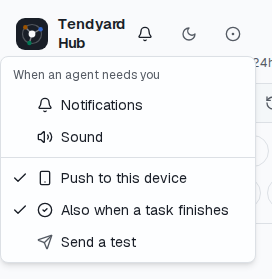
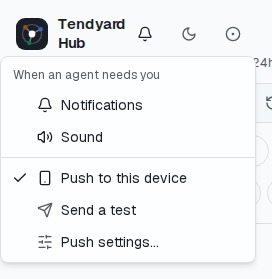
docs: document push devices, their settings and signing out
The hub guide's Push section gets the Push tab of Hub settings (finished
tasks, issues, groups, quiet hours, removing a device), signing out and
when a device ends, the app badge, the devices' routes and push.json;
the architecture guide, the device model and both notifiers.
capture-docs.mjs takes hub-settings-push.png and the new bell menu.
CHANGELOG names the v5.8.0 section.

Changed region(s): [[0.1176, 0.7168, 0.8529, 0.8029], [0.1176, 0.8315, 0.5588, 0.8889], [0.0588, 0.7455, 0.0882, 0.7742]]

diff --git a/docs/architecture.zh-TW.md b/docs/architecture.zh-TW.md
@@ -95,7 +95,7 @@ flowchart TB
 | `lib/native/procutil` | 子行程：行程群組（process group）與正常關閉流程 |
 | `lib/statedb/` | `--state-db` 的 SQLite 持久保存 |
 | `lib/instanceapi/` | Tendyard 和同時監看多個實例的用戶端之間的約定：它是誰（`WebhookInstance`，出現在 webhook 事件、摘要和登記檔中，含它的 `AgentType`）、它的摘要、webhook 的外層格式和簽章（`Sign`、`Verify`），以及 hub 對每個實例顯示的狀態（`StateOf`）。它只匯入 `lib/agentstate` 和 `lib/util` |
-| `lib/hub/` | `agentapi hub serve`，建立在 `lib/instanceapi` 和 `lib/httpmw` 上，不經過伺服器：實例、頁面上設定的群組和釘選、每個實例這一列顯示的內容最近一次變動的時間，以及 hub 看到它工作的區段（`store.go`、`work.go`，由 `persist.go` 保存在檔案中）、最近一年逐小時的活動（`activity.go`、`activity.json`、`GET /api/activity`：工作時間，以及摘要 `spend.hours` 裡每個 scope 的花費）、我的最愛提示（`favorites.go`，`GET`／`PUT /api/favorites`，屬於 hub 的設定，保存在同一個檔案）、模型供應商（`providers.go`、`providers.json`、`GET`／`PUT /api/providers`、給編輯器 Check connection 用的 `POST /api/providers/check`，以及給 Tendyard 用的 `POST /api/providers/sync`）和來自 OpenRouter 的模型價格（`prices.go`、`openrouter.go`、`openrouter.json`、`POST /api/providers/prices`、`GET /api/providers/openrouter`）、傳輸型別的 schema（`schema.go`、`hub-schema.json`，給頁面的型別用）、有簽章的 webhook 接收端（`webhook.go`）、每個實例的摘要串流（`watch.go`）、登入、瀏覽器的事件串流，以及到實例的代理（`hub.go`、`proxy.go`），主機怎麼加入（`join.go`：`GET /api/join` 和啟動 log 列出的位址），以及對已訂閱瀏覽器的 Web Push（`push.go`、`push.json`、`/api/push`：依 store 的變動，推播需要你處理的事和完成的任務）；使用說明見 [hub.zh-TW.md](hub.zh-TW.md) |
+| `lib/hub/` | `agentapi hub serve`，建立在 `lib/instanceapi` 和 `lib/httpmw` 上，不經過伺服器：實例、頁面上設定的群組和釘選、每個實例這一列顯示的內容最近一次變動的時間，以及 hub 看到它工作的區段（`store.go`、`work.go`，由 `persist.go` 保存在檔案中）、最近一年逐小時的活動（`activity.go`、`activity.json`、`GET /api/activity`：工作時間，以及摘要 `spend.hours` 裡每個 scope 的花費）、我的最愛提示（`favorites.go`，`GET`／`PUT /api/favorites`，屬於 hub 的設定，保存在同一個檔案）、模型供應商（`providers.go`、`providers.json`、`GET`／`PUT /api/providers`、給編輯器 Check connection 用的 `POST /api/providers/check`，以及給 Tendyard 用的 `POST /api/providers/sync`）和來自 OpenRouter 的模型價格（`prices.go`、`openrouter.go`、`openrouter.json`、`POST /api/providers/prices`、`GET /api/providers/openrouter`）、傳輸型別的 schema（`schema.go`、`hub-schema.json`，給頁面的型別用）、有簽章的 webhook 接收端（`webhook.go`）、每個實例的摘要串流（`watch.go`）、登入、瀏覽器的事件串流，以及到實例的代理（`hub.go`、`proxy.go`），主機怎麼加入（`join.go`：`GET /api/join` 和啟動 log 列出的位址），以及對已訂閱裝置的 Web Push（`push.go`、`push.json`、`/api/push`、`/api/push/devices`；每台裝置的設定在 `push_prefs.go`；notifier 在 `push_notify.go`：依 store 的變動推播需要你處理的事和完成的任務，依派工的變動推播 issue 的工作）；使用說明見 [hub.zh-TW.md](hub.zh-TW.md) |
 | `lib/dispatch/` | hub 的 issue 派工，由 `lib/hub` 掛上：有 launcher 回報的主機（`host.*` 事件；主機名稱綁定第一次帶來的 launcher token）、job 與各次 run 的花費（任務數來自 `task.*` 事件；金額與工作時間來自 hub 讀到的 run 的 Tendyard，`Saw`）和最近 50 則送給 agent 的訊息（`send`，來自 hub 的頁面、review 或 `/agent` 留言）、`POST /api/dispatch`（`start` 在 job 進入 `starting` 時就回應，hub 在背景呼叫 launcher，並記下這次啟動直到有結果；沒收到回應時從主機下一次回報接回）、GitHub App，保存在 `dispatch.json` 和 `github-app.json`。`Subscribe` 與 `Board` 讓 hub 的串流在每次變動後送出主機和 job（`dispatch` 事件）；規格見 [issue-dispatch.zh-TW.md](specs/issue-dispatch.zh-TW.md) |
 | `lib/host/` | `agentapi host`，每台主機上的 launcher：設定（設定檔的 `host` 區段）、它有或會 clone 的 repo、hub 每啟動一個 job 就建一個 git worktree 和一個實例（結束後重新啟動，記在 `jobs.json`）、給 hub 呼叫且需要 token 的 API（`server.go`）、送給 hub 的 `host.*` 事件與 heartbeat（`hub.go`），以及經由 unix socket 交給 job 的 `git`、`gh` 的 GitHub token（`credentials.go`） |
 | `lib/github/` | hub 的 GitHub App，只依賴標準函式庫：以 manifest 註冊、App 的 JWT、限單一 repo（快取到到期前 5 分鐘）或整個安裝的 installation token，以及派工以 App 身分呼叫的 REST API |
@@ -691,14 +691,23 @@ webhook 事件的 delivery ID 也以同樣方式寫入 `instances.deliveries.jso
 重新啟動後重送的事件同樣會被拒絕。
 
 推播（`push.go`）把 `push.json` 放在 `instances.json` 旁（0600）：VAPID 私鑰在 hub 第一次啟動時產生並寫入，
-讓瀏覽器的訂閱在重新啟動後仍然有效；訂閱則在每次變動時經由 `atomicfile` 寫入。notifier 像瀏覽器的串流一樣
-訂閱 store，為每個實例記住它在等什麼（`instanceapi.AttentionKey`）和最近的任務。看到某個實例的第一筆狀態時，
-只記下這些。出現新的等待，或看過正在執行的任務結束、沒有在等什麼時，啟動 5 秒的計時器（`pushDelay`，用 hub
-的時鐘）；時間到時，實例仍是那個狀態才推播：為同一件事需要你且沒有靜音，或同一個任務已結束且未讀。每個訂閱各自
-拿到為它加密的 payload（`{"kind", "title", "body", "id", "tag"}`），每個實例一個 `Topic`，讓還留著舊推播的
-推播服務以新的取代；推播服務回 404 或 410 的訂閱會移除。頁面的 service worker（`chat/public/hub/sw.js`）
-顯示推播，除非 hub 頁面有某個視窗位於焦點（Safari 一律顯示，因為推播沒顯示任何東西的訂閱，Safari 會結束它）；
-點通知時，聚焦 hub 頁面的一個視窗並由它開啟 agent（`usePush`）；沒有開著的頁面時，以 `#<id>` 開啟頁面。
+讓瀏覽器的訂閱在重新啟動後仍然有效；裝置則在每次變動時經由 `atomicfile` 寫入。一台裝置就是一個訂閱，加上它的
+名稱、設定（`PushPrefs`，`push_prefs.go`）、它的推播服務最近一次收下和拒絕推播的時間，以及 `expires_at`：
+頁面每次載入都會為它續期（`PUT /api/push/subscription`），帶著 session cookie 時，它隨那個 session 結束
+（簽發時間 + 30 天）；`token_id` 是 hub token 的 HMAC，換了 token 啟動的 hub 會忘掉這台裝置。API 以 endpoint
+的 SHA-256 前 8 個位元組指稱裝置：持有 endpoint 就能推播，所以它不會離開 hub。
+
+notifier 在 `push_notify.go`。其中一個像瀏覽器的串流一樣訂閱 store，為每個實例記住它在等什麼
+（`instanceapi.AttentionKey`）和最近的任務。看到某個實例的第一筆狀態時，只記下這些。出現新的等待，或看過正在
+執行的任務結束、沒有在等什麼時，啟動 5 秒的計時器（`pushDelay`，用 hub 的時鐘）；時間到時，實例仍是那個狀態
+才推播：為同一件事需要你且沒有靜音，或同一個任務已結束且未讀。另一個跟著派工（`Subscribe`、`Board`），job 的
+pull request 出現，或 job 變成 `failed` 或 `done` 時，立刻推播。每台要收這則推播的裝置（`PushPrefs.wants`：
+推播的種類、agent 的群組或釘選，以及裝置時區裡的勿擾時段）各自拿到為它加密的 payload（`{"kind", "title",
+"body", "id", "issue", "tag", "badge"}`，`badge` 是當下需要你的 agent 數），每個實例或 issue 一個 `Topic`，
+讓還留著舊推播的推播服務以新的取代；推播服務回 404 或 410 的裝置會移除。頁面的 service worker
+（`chat/public/hub/sw.js`）設定 app 圖示的徽章，並顯示推播，除非 hub 頁面有某個視窗位於焦點（Safari 一律
+顯示，因為推播沒顯示任何東西的訂閱，Safari 會結束它）。點通知時，聚焦 hub 頁面的一個視窗並由它開啟 agent 或
+issue（`usePush`）；沒有開著的頁面時，以 `#<id>` 或 `?issue=<key>` 開啟頁面。頁面開著時，由它自己設定徽章。
 
 活動（`activity.go`）是獨立的檔案，放在 `instances.json` 旁的 `activity.json`，寫法相同，但最多每
 15 秒寫一次：最多存一年，每小時一個數字陣列，開頭是以 Unix 秒表示的開始時間。工作時間在每個

diff --git a/docs/architecture.md b/docs/architecture.md
@@ -95,7 +95,7 @@ emitter. Handlers call the conversation and read state from the emitter.
 | `lib/native/procutil` | Child process groups and graceful shutdown |
 | `lib/statedb/` | SQLite persistence for `--state-db` |
 | `lib/instanceapi/` | The contract between a Tendyard instance and the clients that watch many: who it is (`WebhookInstance`, in its webhook events, summary and registry entry, with its `AgentType`), its summary, the webhook envelope with its signature (`Sign`, `Verify`), and the state a hub shows of each instance (`StateOf`). It imports only `lib/agentstate` and `lib/util` |
-| `lib/hub/` | `agentapi hub serve`, over `lib/instanceapi` and `lib/httpmw` rather than the server: the instances, the groups and pins set on its page, when each last changed what its row shows and when the hub saw each working (`store.go`, `work.go`, kept in a file by `persist.go`), the activity of the last year hour by hour (`activity.go`, `activity.json`, `GET /api/activity`: the work, and each scope's spend from the summaries' `spend.hours`), the favorite prompts (`favorites.go`, `GET`/`PUT /api/favorites`, among the hub's settings in the same file), the model providers (`providers.go`, `providers.json`, `GET`/`PUT /api/providers`, `POST /api/providers/check` for the editor's Check connection, and `POST /api/providers/sync` for the Tendyard instances) and their models' prices from OpenRouter (`prices.go`, `openrouter.go`, `openrouter.json`, `POST /api/providers/prices`, `GET /api/providers/openrouter`), the schema of its wire types (`schema.go`, `hub-schema.json`, for the page's types), the signed webhook receiver (`webhook.go`), each instance's summary stream (`watch.go`), sign-in, the browser's event stream and the proxy to the instances (`hub.go`, `proxy.go`), where machines join it (`join.go`: its addresses for `GET /api/join` and the startup log), and Web Push to the browsers that subscribed (`push.go`, `push.json`, `/api/push`: what needs you and the finished tasks, from the store's changes); the user guide is [hub.md](hub.md) |
+| `lib/hub/` | `agentapi hub serve`, over `lib/instanceapi` and `lib/httpmw` rather than the server: the instances, the groups and pins set on its page, when each last changed what its row shows and when the hub saw each working (`store.go`, `work.go`, kept in a file by `persist.go`), the activity of the last year hour by hour (`activity.go`, `activity.json`, `GET /api/activity`: the work, and each scope's spend from the summaries' `spend.hours`), the favorite prompts (`favorites.go`, `GET`/`PUT /api/favorites`, among the hub's settings in the same file), the model providers (`providers.go`, `providers.json`, `GET`/`PUT /api/providers`, `POST /api/providers/check` for the editor's Check connection, and `POST /api/providers/sync` for the Tendyard instances) and their models' prices from OpenRouter (`prices.go`, `openrouter.go`, `openrouter.json`, `POST /api/providers/prices`, `GET /api/providers/openrouter`), the schema of its wire types (`schema.go`, `hub-schema.json`, for the page's types), the signed webhook receiver (`webhook.go`), each instance's summary stream (`watch.go`), sign-in, the browser's event stream and the proxy to the instances (`hub.go`, `proxy.go`), where machines join it (`join.go`: its addresses for `GET /api/join` and the startup log), and Web Push to the devices that subscribed (`push.go`, `push.json`, `/api/push`, `/api/push/devices`; each device's settings in `push_prefs.go`; the notifiers in `push_notify.go`: what needs you and the finished tasks from the store's changes, the issues' work from the dispatch's); the user guide is [hub.md](hub.md) |
 | `lib/dispatch/` | The hub's issue dispatch, which `lib/hub` mounts: the machines whose launchers report (`host.*` events; each name pinned to the launcher token it first came with), the jobs with their runs' costs (the tasks from `task.*` events; the spend and work time from what the hub reads of the run's Tendyard, `Saw`) and the last 50 messages their agents were sent (`send`, from the hub's page, a review or an `/agent` comment), `POST /api/dispatch` (a start answers once its job is `starting`; the hub calls the launcher in the background and keeps the start until it ends, adopting it from the machine's next report if the answer was lost), the GitHub App, kept in `dispatch.json` and `github-app.json`. `Subscribe` and `Board` give the hub's stream the machines and jobs after each change (its `dispatch` event); the spec is [issue-dispatch.zh-TW.md](specs/issue-dispatch.zh-TW.md) |
 | `lib/host/` | `agentapi host`, the launcher on each machine: its settings (the `host` section of the config file), the repositories it has or clones, a git worktree and a Tendyard instance for each job the hub starts (restarted after it exits, kept in `jobs.json`), its API for the hub behind its token (`server.go`), its `host.*` events and heartbeats to the hub (`hub.go`), and each job's GitHub token over a unix socket for its `git` and `gh` (`credentials.go`) |
 | `lib/github/` | The hub's GitHub App, with no dependency beyond the standard library: registering it from a manifest, its JWT, installation tokens for one repository (kept until five minutes before they expire) or all, and the REST calls the dispatch makes as the app |
@@ -907,19 +907,30 @@ IDs of the webhook events it took, each until its signature no longer holds, go 
 `instances.deliveries.json`, so a copy replayed after a restart is refused too.
 
 Push (`push.go`) keeps `push.json` next to `instances.json` (0600): the VAPID private key, made and
-written when the hub first starts so a browser's subscription outlives a restart, and the
-subscriptions, written through `atomicfile` on each change. The notifier subscribes to the store
-like a browser's stream and remembers, per instance, what it waits for (`instanceapi.AttentionKey`)
-and its latest task. The first time it sees an instance it only records that. A new attention, or
-the task it saw running ending without one, arms a timer of 5 seconds (`pushDelay`, on the hub's
-clock); when it fires, the instance is pushed only if that still holds: needing you for the same
-thing and not muted, or the same task ended and unread. Each subscription gets the payload
-(`{"kind", "title", "body", "id", "tag"}`) encrypted for it, with a `Topic` per instance so a push
-service still holding an older one replaces it; one whose push service answers 404 or 410 is
-removed. The page's service worker (`chat/public/hub/sw.js`) shows it unless a window of the hub's
-page is focused (Safari always shows it, since it ends a subscription whose pushes show nothing),
-and a click focuses a window of the hub's page, which opens the agent (`usePush`), or, with none open, opens the
-page at `#<id>`.
+written when the hub first starts so a browser's subscription outlives a restart, and the devices,
+written through `atomicfile` on each change. A device is a subscription with its label, its settings
+(`PushPrefs`, `push_prefs.go`), when its push service last took a push or refused one, and
+`expires_at`. A page renews it on each load (`PUT /api/push/subscription`), and with the session
+cookie it ends with that session (issued + 30 days). `token_id`, an HMAC of the hub token, makes a
+hub started with another token forget it. The API names a device by the first 8 bytes of its
+endpoint's SHA-256, so the endpoint, which lets whoever holds it push, never leaves the hub.
+
+The notifiers are in `push_notify.go`. One subscribes to the store like a browser's stream and
+remembers, per instance, what it waits for (`instanceapi.AttentionKey`) and its latest task. The
+first time it sees an instance it only records that. A new attention, or the task it saw running
+ending without one, arms a timer of 5 seconds (`pushDelay`, on the hub's clock); when it fires, the
+instance is pushed only if that still holds: needing you for the same thing and not muted, or the
+same task ended and unread. The other follows the dispatch (`Subscribe`, `Board`) and pushes a job
+whose pull request appears, or that turns `failed` or `done`, at once. Each device that wants the
+push (`PushPrefs.wants`: its kind, the agent's group or pin, its quiet hours in its time zone) gets
+the payload (`{"kind", "title", "body", "id", "issue", "tag", "badge"}`, `badge` the number of
+agents that need you then) encrypted for it, with a `Topic` per instance or issue so a push service still
+holding an older one replaces it; one whose push service answers 404 or 410 is removed. The page's
+service worker (`chat/public/hub/sw.js`) sets the app icon's badge, and shows the push unless a
+window of the hub's page is focused (Safari always shows it, since it ends a subscription whose
+pushes show nothing). A click focuses a window of the hub's page, which opens the agent or the
+issue (`usePush`), or, with none open, opens the page at `#<id>` or `?issue=<key>`. The page sets
+the badge itself while it is open.
 
 The activity (`activity.go`) is a file of its own, `activity.json` next to `instances.json`,
 written the same way but at most every 15 seconds: up to a year of hours, each its start in Unix

diff --git a/CLAUDE.md b/CLAUDE.md
@@ -89,7 +89,7 @@ persistence and the security model.
 - **`lib/dispatch/`** — The hub's issue dispatch, which `lib/hub` mounts when `Config.Dispatch` is set (`agentapi hub serve` always sets it): `host.*` events at `/hooks` add the machines (`HostEvent`: each name pinned to the launcher token it first came with, its URL checked by `launcher.go`, whose client connects to no loopback (unless `--allow-loopback-launchers`), link-local or unspecified address, without a proxy or redirects, `ForgetHost`/`DELETE /api/hosts/{name}` frees it; reconciling their jobs, adopting the starts the hub lost the answer of and stopping, worktree kept, the jobs no start asked for), `task.*` events add up each job's run cost when both the instance and process `server_id` match and the hub reads that instance, as that run, at an address of the launcher URL of the run's machine (`TaskEvent`, with the URL `lib/hub`'s `taskInstanceURL` passes; `Run.Events`), and its spend and work time from what the hub reads of that instance under the same checks (`seen.go`: `Saw`, which `lib/hub`'s `applySummary` calls with the summary's `spend.hours` and the instance's work spans; `Run.Seen` keeps the hours that may still change and adds up the earlier ones; `Run.Cost` is what is shown, `shown`), `POST /api/dispatch` (`MountDispatch`: a signed-in browser or `--dispatch-token`) starts, messages, links and stops jobs on the launchers (`service.go`: a start answers once its job is `starting` on the machine `reserveStart` picked under the lock, and `runStart` calls the launcher in the background, kept in `dispatch.json` as `starts` until it ends; the host choice in `pickHostLocked`, agent switches that keep the worktree, failed background writes stay pending for retry; the last 50 messages of each job with their source, `Job.Messages`), `Subscribe` and `Board` hand the hub's browser stream the machines and jobs after each change (its `dispatch` event), `prompts.go` has the agent's prompts and the cost comment, and `http.go` the session routes (`/api/hosts`, `/api/jobs`, `POST /api/jobs/clear` (`ClearJobs`: the ended jobs no machine still has; the Done section's Clear, `issues/clear-jobs-dialog.tsx`), `/api/github*`, the manifest flow `/github/connect`, `/github/callback`, `/github/setup`) and `/api/github/token`, where a launcher signed with the hub's secret gets a job's repository token. It keeps `dispatch.json` and `github-app.json` next to `instances.json`.
 - The dispatch's page is the hub's Issues page (`chat/src/components/hub/issues/`, opened from the list header's ◎ or `i` in place of the overview, `issues-view.tsx` with its cards, detail (`issue-detail.tsx`, `issue-status.tsx`, `detail-parts.tsx`), assign menu and `use-dispatch.ts`), its board model in `chat/src/lib/hub-issues.ts` and its calls in `chat/src/lib/hub-dispatch.ts`, which checks each answer; the machines and jobs come only with the stream's `dispatch` event (`useHubStream`), an action's answer standing in for its job until the stream has it as new (`withAnswers`), which feeds the ◎ badge and the list rows' issue chips (`HubListContext.jobs`, `hub/issues/job-chip.tsx`); its types are the hub schema's `Dispatch*`, `Launcher*` and `GitHub*` (`schemaNamer` in `lib/hub/schema.go` prefixes the types of `lib/dispatch`, `lib/host` and `lib/github`). `examples/issue-dispatch/` has the GitHub workflow that turns a repository's events into dispatches.
 - **`lib/github/`** — The hub's GitHub App with the standard library only: the manifest conversion, the RS256 JWT, installation tokens for one repository (kept until five minutes before they expire), and the REST calls as the app (`As`: issues, comments, labels, branches).
-- **`lib/webpush/`** — Web Push with the standard library only: `Subscription.Validate`, `Encrypt` (RFC 8291 `aes128gcm`, checked against the RFC's example), the VAPID key and its ES256 token (RFC 8292), and `Sender.Send` (`ErrGone` for an ended subscription, `StatusError` for another refusal); `Decrypt`, the browser's side, for tests. `lib/hub/push.go` uses it: the VAPID key and subscriptions in `push.json` (0600), `GET /api/push`, `PUT`/`DELETE /api/push/subscription`, `POST /api/push/test`, and the notifier (`notifyPush`), which follows the store's changes and pushes a new attention or a task that ended unread after `pushDelay` (5 s) if it still holds. The page's side is `chat/src/lib/hub-push.ts` and `chat/src/components/hub/use-push.ts` (the bell's **Push to this device**), with the service worker, manifest and icons in `chat/public/hub/` (`scripts/hub-icons.mjs` draws the icons).
+- **`lib/webpush/`** — Web Push with the standard library only: `Subscription.Validate`, `Encrypt` (RFC 8291 `aes128gcm`, checked against the RFC's example), the VAPID key and its ES256 token (RFC 8292), and `Sender.Send` (`ErrGone` for an ended subscription, `StatusError` for another refusal); `Decrypt`, the browser's side, for tests. `lib/hub/push.go` uses it: the VAPID key and the devices in `push.json` (0600; a device ends with the session that renewed it, `expires_at`, or a changed hub token, `token_id`), `GET /api/push`, `PUT`/`DELETE /api/push/subscription`, `POST /api/push/test`, `GET /api/push/devices`, `PATCH`/`DELETE /api/push/devices/{id}` (the ID is the start of the endpoint's SHA-256); each device's settings (`PushPrefs`: finished tasks, issues, groups and pinned, quiet hours) in `push_prefs.go`; the notifiers in `push_notify.go`: `notifyPush` follows the store's changes and pushes a new attention or a task that ended unread after `pushDelay` (5 s) if it still holds, `notifyIssues` follows the dispatch and pushes a job's pull request opened, failed or done; each payload carries `badge`, the number of agents that need you. The page's side is `chat/src/lib/hub-push.ts` and `chat/src/components/hub/use-push.ts` (the bell's **Push to this device**, **Send a test**, **Push settings…**; the app badge; signing out unsubscribes), the settings' Push tab in `chat/src/components/hub/push-settings.tsx`, with the service worker, manifest and icons in `chat/public/hub/` (`scripts/hub-icons.mjs` draws the icons).
 - **`lib/jsonapi/`** — The JSON plumbing `lib/hub`, `lib/dispatch` and `lib/host` share, standard library only: `Read` (a body of 1 MiB at most, else 400), `Write`, and `Error` (`Errorf`, `IsCode`): a refusal with its HTTP status and a code, which `WriteError` answers as `ErrorBody`, `{"code", "message", "error"}` (`error` repeats `message`; `StatusCode` is the code of an error without one of its own). Every error the hub answers has that shape; `ReadError` reads it.
 - **`lib/host/`** — `agentapi host serve`, the launcher a hub dispatches GitHub issues to (spec: `docs/specs/issue-dispatch.zh-TW.md`). `Launcher` (`launcher.go`) starts a job: the repository (scanned in `repos.go`, or cloned), a worktree on `agent/issue-<n>` beside it (`<repo>.worktrees/<n>`), then an `agentapi server` in a session of its own (`process_*.go`) with a state database per run, the shared instance token, and an environment without Tendyard's variables (`procenv`), with the job's git setup in `GIT_CONFIG_COUNT` entries. It keeps the jobs in `~/.agentapi/jobs.json` (`jobs.go`), takes over the ones still running after a restart and starts again those that exited, after 5 s, 15 s, 45 s, 2 min, then 5 min (`restartDelays`; the restarts kept in `jobs.json`), failing one that exits again after 5 restarts in 30 minutes. A start goes on when the hub's request ends (`StartTimeout`); if its initial metadata can't be saved, the child is stopped rather than reported as started. The process's `server_id` distinguishes restarts in `jobs.json`, and `Jobs` reports the jobs still being prepared as `starting`, without a Tendyard instance. `server.go` is the API for the hub behind the host token (`/host`, `/jobs`) and the unix socket (`host.sock`) where the jobs' git credential helper and gh shim get a GitHub token (`credentials.go`: the hub's tokens through `HubCredentials` in `hub.go`, or one token from `github-token-file`; each job keeps which). `hub.go` also sends the hub the signed `host.*` events (`reportLoop`); the jobs' Tendyard instances read the launcher's config file and send `task.*` events too. It reads the `host` section of `~/.agentapi/config.yaml`, which `agentapi server` skips (`config.go`).
 - **`lib/atomicfile/`** — `Write` replaces a file at once (0600): a temporary file, synced before it is renamed into place and the directory synced after, so a crash leaves the old data or the new. `lib/userconfig`, `lib/registry` and `lib/hub` write their files with it.

diff --git a/docs/hub.md b/docs/hub.md
@@ -963,11 +963,11 @@ it, with only the marks of the machine's other agents, and the composer one row,
 
 **Push to this device**, in the bell's menu, has the hub send this device a notification when an
 agent starts needing you, even with the hub's page closed and the phone locked. Tapping it opens
-the hub at that agent. **Also when a task finishes** adds one for each finished task, and
-**Send a test** checks that a push arrives. Push is turned on per device, and the browser
-remembers it; a device with push gets the push instead of the open page's notification.
+the hub at that agent. **Send a test** checks that a push arrives, and **Push settings…** opens
+what each device gets. Push is turned on per device; a device with push gets the push instead of
+the open page's notification. On the Home Screen, the hub's icon shows how many agents need you.
 
-![The bell's menu with push on this device: Push to this device, Also when a task finishes and Send a test below Notifications and Sound](screenshots/hub-push.png)
+![The bell's menu with push on this device: Push to this device, Send a test and Push settings… below Notifications and Sound](screenshots/hub-push.png)
 
 Push needs the hub's page on https, such as through your Coder workspace or a reverse proxy; a
 page at `http://<address>:3290` can't subscribe. Then, on each device:
@@ -983,6 +983,25 @@ approval answered at once, or a muted agent, sends nothing. The same request see
 reconnect isn't pushed again. A finished task is pushed only while it is unread, so one you watched finish
 isn't. While the hub's page is open and in front, its own alerts tell you instead; Safari shows
 the push anyway.
+
+The **Push** tab of **Hub settings** lists the devices the hub pushes to, this one
+first, with when each last got a push and why the last one failed. Each device has its own settings,
+kept on the hub, so a laptop can change the phone's:
+
+- **Finished tasks**: a push for each task that finishes, besides what needs you.
+- **Issues**: a push when an [issue's](#issues) pull request opens, and when its job fails or is
+  done. A tap opens the issue in Issues.
+- **Agents**: the groups whose agents it gets, **Pinned** for the pinned ones, and **Ungrouped**;
+  with none picked, every agent. Issues don't depend on them.
+- **Quiet hours**: the hours when nothing is pushed to it, in the browser's time zone when they
+  are turned on. A push that falls in them is dropped, not held.
+
+The trash button stops pushing to a device. A device also stops when its sign-in ends: **Sign out
+of this browser**, at the bottom of the settings, stops this one before signing out, and the hub
+forgets a device whose session (30 days from signing in) ran out, or that subscribed under another
+hub token. Signing in again and opening the hub renews it.
+
+![Hub settings at its Push tab: this device getting finished tasks, following the pinned agents and Client work, with quiet hours](screenshots/hub-settings-push.png)
 
 The hub sends each push through the device's push service (Google's for Chrome on Android,
 Apple's for Safari, Mozilla's for Firefox), so the hub must reach the internet, through
@@ -1302,7 +1321,10 @@ running Tendyard instances, which then no longer follow their conversation for t
 | `POST /api/dispatch` | Starts, messages, links and stops the work on an issue (`action`: `start`, `send`, `link_pr`, `stop`); also takes `--dispatch-token`. A start answers once its job is `starting` on a machine; the job's state then follows on the stream and in `GET /api/jobs` |
 | `GET /api/activity?tz=&days=` | The [activity](#activity) of each of the last `days` days (1 to 371, 371 by default: 53 weeks), the earliest first, in the time zone `tz` names (an IANA name such as `Asia/Taipei`; UTC by default): `{"days": [{"date": "2026-11-10", "work_seconds", "usd", "tokens": {"input", "output", "cache_write", "cache_read", "total"}}, …], "since", "time_zone"}`. `since` is the first day the hub kept, in that zone; an hour counts in the day it starts in there. 400 for a time zone or a count it doesn't take |
 | `GET /api/push` | The hub's [push](#push) key, which a browser subscribes with: `{"public_key"}` (VAPID, base64url) |
-| `PUT /api/push/subscription` | `{"endpoint", "keys": {"p256dh", "auth"}, "finished"}` (a browser's `PushSubscription.toJSON()`, with `finished` for the finished tasks too) adds the browser to those the hub pushes to, or updates it; 204. The endpoint is https. At most 50: a new one past them replaces the oldest |
+| `PUT /api/push/subscription` | `{"endpoint", "keys": {"p256dh", "auth"}, "label"}` (a browser's `PushSubscription.toJSON()`, and what the device is) adds the browser to the devices the hub pushes to, or renews it, keeping its settings, and answers the device as `GET /api/push/devices` lists it. The endpoint is https. With the session cookie, the device stays until that session ends; the page sends it again on each load. At most 50: a new one past them replaces the oldest |
+| `GET /api/push/devices` | The devices the hub pushes to, without their endpoints and keys: `{"devices": [{"id", "label", "created_at", "renewed_at", "expires_at", "last_sent_at", "last_error", "last_error_at", "finished", "issues", "groups", "pinned", "quiet_hours"}]}`. `id` is the start of the endpoint's SHA-256 in hex; `quiet_hours` is `{"start", "end", "time_zone"}` (`HH:MM`, an IANA zone), missing for none |
+| `PATCH /api/push/devices/{id}` | Changes a device's settings, those sent: `finished`, `issues`, `groups` (`""` for the ungrouped agents; none, with `pinned` false, is every agent), `pinned`, `quiet_hours` (`{}` removes them). Answers the device; 400 for a time or zone it doesn't take, 404 for a device it doesn't have |
+| `DELETE /api/push/devices/{id}` | Stops pushing to a device; 204, 404 for a device it doesn't have |
 | `DELETE /api/push/subscription` | `{"endpoint"}` stops pushing to that browser; 204 |
 | `POST /api/push/test` | `{"endpoint"}` pushes a test notification to that browser, and answers 204 once its push service took it; 404 for a browser the hub doesn't push to, 410 when the push service ended the subscription (the hub forgets it), 502 for another refusal |
 | `GET /api/join` | Where machines join the hub: `urls`, each a webhook URL (`url`) with the interface of its address (`interface`; none for `--bind`'s), in the order the startup log has them; and the secret (`secret`, with `secret_shown: true`) only on a hub with a token |
@@ -1329,7 +1351,7 @@ A refused or failed request answers `{"code": …, "message": …, "error": …}
 | `~/.agentapi/hub/dispatch.json` | `agentapi hub serve` | The [issue dispatch's](#issues) machines with their launchers' tokens, and the jobs: their runs, costs and last 50 messages |
 | `~/.agentapi/hub/github-app.json` | `agentapi hub serve` | The hub's GitHub App and its private key |
 | `~/.agentapi/hub/providers.json` | `agentapi hub serve` | The [model providers](#model-providers), their keys and their price picks (0600) |
-| `~/.agentapi/hub/push.json` | `agentapi hub serve` | The hub's [push](#push) key (VAPID) and the browsers it pushes to (0600); without it the hub makes a new key, and each device turns push on again |
+| `~/.agentapi/hub/push.json` | `agentapi hub serve` | The hub's [push](#push) key (VAPID) and the devices it pushes to, with their settings and when their sessions end (0600); without it the hub makes a new key, and each device turns push on again |
 | `~/.agentapi/hub/openrouter.json` | `agentapi hub serve` | The hub's copy of OpenRouter's models and their prices, as it last got them, and the models the providers without models listed |
 | `~/.agentapi/hub-providers.json` | `agentapi server` | On each machine, beside its config file: the providers the hub last answered, sealed with the hub's secret, which stand in at the next start until the hub answers |
 

diff --git a/AGENTS.md b/AGENTS.md
@@ -78,7 +78,7 @@ Claude Code, Codex and Pi through their structured protocols (the native transpo
 - `lib/pricing/` - Model prices per million tokens (built-in `prices.json`, `--prices` file) and per-call cost calculation; `scripts/prices.mjs` compares `prices.json` with Pi's model registry
 - `lib/statedb/` - SQLite persistence of conversations (`--state-db`), which loads the latest tasks' rich messages and timeline and reads earlier pages on demand; the stored state is one versioned (currently 2) meta value, `conversation_state` (`state.go`), with newer or unreadable envelopes preserved through later writes; the per-part keys of 3.7.2 and earlier aren't read
 - `lib/instanceapi/` - The contract with clients that watch many Tendyard instances: who an instance is (with its `AgentType`), its summary (its `spend` split by provider in `providers`, and `provider_health`), the webhook envelope and signature, and the state a hub shows; it imports only `lib/agentstate` and `lib/util`
-- `lib/hub/` - `agentapi hub serve`: a server that watches many Tendyard instances, built on `lib/instanceapi` and `lib/httpmw` rather than `lib/httpapi` (signed webhooks, summary streams, a proxy that opens any of them in the chat, the addresses machines join it by, the activity of the last year hour by hour (`activity.json`, `GET /api/activity`, the overview's heatmap), the favorite prompts among the settings its page keeps, the model providers (`providers.go`, `providers.json`, `GET`/`PUT /api/providers`, `POST /api/providers/check` (the editor's Check connection) with write-only keys inherited only at unchanged endpoints and conditional whole-list revisions (a stale PUT is 409), `POST /api/providers/sync` for the Tendyard instances, with their models' prices from OpenRouter (`prices.go`, `openrouter.go`: the public list fetched daily and on `POST /api/providers/prices`, kept in `openrouter.json`, matched by normalized name unless `providers.json` picks a model or `none`; `GET /api/providers/openrouter` searches it); the page's Providers tab, `chat/src/components/hub/providers-settings.tsx` with its logic in `chat/src/lib/hub-providers.ts` and the prices in `hub/provider-prices.tsx`), and `hub-schema.json`, the generated schema of its wire types, and Web Push to the browsers that subscribed (`push.go`, `push.json`, `/api/push`; the page's service worker, manifest and icons in `chat/public/hub/`))
+- `lib/hub/` - `agentapi hub serve`: a server that watches many Tendyard instances, built on `lib/instanceapi` and `lib/httpmw` rather than `lib/httpapi` (signed webhooks, summary streams, a proxy that opens any of them in the chat, the addresses machines join it by, the activity of the last year hour by hour (`activity.json`, `GET /api/activity`, the overview's heatmap), the favorite prompts among the settings its page keeps, the model providers (`providers.go`, `providers.json`, `GET`/`PUT /api/providers`, `POST /api/providers/check` (the editor's Check connection) with write-only keys inherited only at unchanged endpoints and conditional whole-list revisions (a stale PUT is 409), `POST /api/providers/sync` for the Tendyard instances, with their models' prices from OpenRouter (`prices.go`, `openrouter.go`: the public list fetched daily and on `POST /api/providers/prices`, kept in `openrouter.json`, matched by normalized name unless `providers.json` picks a model or `none`; `GET /api/providers/openrouter` searches it); the page's Providers tab, `chat/src/components/hub/providers-settings.tsx` with its logic in `chat/src/lib/hub-providers.ts` and the prices in `hub/provider-prices.tsx`), and `hub-schema.json`, the generated schema of its wire types, and Web Push to the devices that subscribed (`push.go`, `push.json`, `/api/push`, `/api/push/devices`; each device's settings in `push_prefs.go`, the notifiers in `push_notify.go`; the page's Push settings in `chat/src/components/hub/push-settings.tsx`, its service worker, manifest and icons in `chat/public/hub/`))
 - `lib/sse/` - Server-sent events as the HTML standard defines them (`Reader`, `Write`), for the hub's streams
 - `lib/netaddr/` - The machine's IPv4 addresses: those other machines may reach (the hub's join URLs), and the one on the route to a host (`{ip}` in `--public-url`)
 - `lib/userconfig/` - The user's settings file (`~/.agentapi/config.yaml`), which `agentapi server` reads and `agentapi hub join` writes

diff --git a/docs/screenshots/README.md b/docs/screenshots/README.md
@@ -123,7 +123,8 @@ device scale factor of 1.
 | [composer-favorites.png](composer-favorites.png) | An idle agent open from the hub, the composer's ☆ menu of favorites over a draft |
 | [hub-empty.png](hub-empty.png) | The guide an empty hub shows: the hub's address, the join command and a prompt for an agent on the machine, the secret masked |
 | [hub-sign-in.png](hub-sign-in.png) | Signing in to the hub, beside its picture of agents in their states |
-| [hub-push.png](hub-push.png) | The bell's menu with push on this device: Notifications and Sound, then Push to this device, Also when a task finishes and Send a test |
+| [hub-push.png](hub-push.png) | The bell's menu with push on this device: Notifications and Sound, then Push to this device, Send a test and Push settings… |
+| [hub-settings-push.png](hub-settings-push.png) | Hub settings at its Push tab: this device getting finished tasks, following the pinned agents and Client work, with quiet hours, and Sign out of this browser |
 | [hub-list.png](hub-list.png) | The hub's list: two pinned agents, then two groups and Ungrouped, with every state's glyph: approval, question, login, usage limit, working, finished, idle, unreachable, stopped; and each agent's Tendyard version, one older than the hub |
 | [hub-add.png](hub-add.png) | The Add dialog: joining a machine (the hub's address, updates from the hub, the command and a prompt for an agent, the secret masked), or adding an instance by its URL and token |
 | [hub-settings-favorites.png](hub-settings-favorites.png) | Hub settings at its Favorites tab: the favorites, each with its buttons to move, edit and delete it |

diff --git a/CHANGELOG.md b/CHANGELOG.md
@@ -4,6 +4,25 @@
 
 ### Features
 
+- Hub settings get a **Push** tab: the devices the hub pushes to, each with when it last got a
+  push and why the last failed. Each has its own settings, kept on the hub: **Finished tasks**,
+  **Issues**, the groups whose agents it gets (and **Pinned**, **Ungrouped**), and quiet hours in
+  its time zone. The trash button stops pushing to a device. The bell's menu trades **Also when a
+  task finishes** for **Push settings…**.
+- The hub pushes the issues' work to the devices that want it: a pull request opened, a job that
+  failed or is done. A tap opens the issue in Issues.
+- The hub's icon on the Home Screen shows how many agents need you: each push carries the count,
+  and the open page keeps it current.
+- **Sign out of this browser**, at the bottom of Hub settings, stops the pushes to this browser,
+  then signs out. The hub stops pushing to a device whose session ended (30 days after signing
+  in; the page renews the device each time it opens) and forgets the devices of another hub token.
+- `GET /api/push/devices`, `PATCH` and `DELETE /api/push/devices/{id}`; `PUT
+  /api/push/subscription` takes the device's `label` and answers the device.
+
+## v5.8.0
+
+### Features
+
 - The hub pushes what needs you to a phone with its page closed ([Push](docs/hub.md#push)). The
   bell's **Push to this device** subscribes the browser through Web Push; **Also when a task
   finishes** adds the finished tasks, and **Send a test** checks that one arrives. The hub sends a
